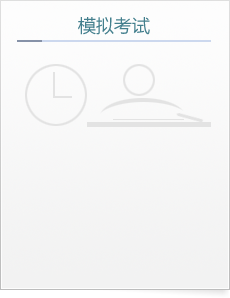
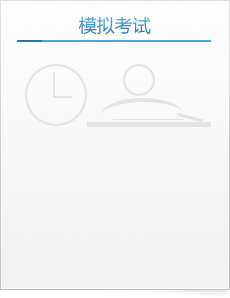
update style

Changed region(s): [[0.0609, 0.0604, 0.913, 0.151]]

diff --git a/public/stylesheets/style.css b/public/stylesheets/style.css
@@ -6,7 +6,7 @@ img { border: none;}
 .clear { clear: both;}
 .orange { color: #F60;}
 .red { color: #F00;}
-.blue { color: #1167aa;}
+.blue { color: #2875ae;}
 
 .wrap { height: 38px; background: url(/images/paper/top_bg.png) repeat-x;}
 
@@ -25,7 +25,7 @@ img { border: none;}
 .menu { width: 437px; height: 39px; padding: 0 12px; _width: 445px; _padding: 0 8px; background: url(/images/paper/menu_bg.png) no-repeat;}
 .menu li { float: left; padding: 0 9px; height: 39px; line-height: 42px;}
 .menu li a { color: #333; text-decoration: none;}
-.menu li a:hover, .menu li a.hover { color: #1abcf0;}
+.menu li a:hover, .menu li a.hover { color: #2875af;}
 
 .main { width: 880px; margin: 0 auto; padding: 10px; overflow: hidden; }
 
@@ -56,11 +56,11 @@ img { border: none;}
 	background: url(/images/paper/all_bg.png) no-repeat -7px -83px;
 }
 .per_load_bg { width: 199px; height: 20px; background: url(/images/paper/per_load_bg.png) no-repeat; padding: 7px 0 0 7px; margin: 0 auto;}
-.per_load_t { width: 207px; height: 11px; background: url(/images/paper/per_load_t.png) no-repeat;}
+.per_load_t { width: 193px; height: 11px; background: url(/images/paper/per_load_t.png) no-repeat;}
 
 
 .per_two_box { width: 141px; height: 105px; margin: 5px auto;}
-.per_tb_title { width: 141px; height: 27px; overflow: hidden; line-height: 27px; text-align: center; font-size: 14px; color: #437f8d; font-family: "微软雅黑";}
+.per_tb_title { width: 141px; height: 27px; overflow: hidden; line-height: 27px; text-align: center; font-size: 14px; color: #2875ae; font-family: "微软雅黑";}
 .per_tb_xinx { background: url(/images/paper/all_bg.png) no-repeat 0px -524px;}
 .per_tb_ctk { background: url(/images/paper/all_bg.png) no-repeat 0px -563px;}
 .per_tb_biji { background: url(/images/paper/all_bg.png) no-repeat 0px -603px;}
@@ -241,7 +241,7 @@ img { border: none;}
 .mokao_right { float: left; width: 635px; height: 364px; position: relative;}
 .mokaoList { height: 70px; padding-top: 30px; line-height: 24px; cursor: pointer;}
 .mokaoList h3 { font-size: 14px; color: #333;}
-.mkl_h h3 { color: #1167aa;}
+.mkl_h h3 { color: #2875ae;}
 
 .mk_r_div {padding-left: 240px; width: 395px; padding-top: 40px; height: 324px; overflow: hidden;}
 .mkList_jt0 { background: url(/images/paper/mkList_jt0.jpg) no-repeat 0 center;}
@@ -271,6 +271,29 @@ img { border: none;}
 .tb_checkBox { height: 27px; padding-left: 490px; margin-top: 10px;}
 
 .tb_check {  width: 60px; height: 27px; display: block; background: url(/images/paper/all_bg.png) no-repeat -30px -157px;}
+
+
+
+/*综合-----------------------------*/
+.zonghe_div { padding: 10px; height: 600px; position: relative;}
+.zh_tab { width: 250px; height:176px; background: url(/images/paper/zh_tab.png) no-repeat; _background: url(/images/paper/zh_tab.gif) no-repeat; position: absolute;}
+.zh_tab0 { background: url(/images/paper/zh_tab0.png) no-repeat; _background: url(/images/paper/zh_tab0.gif) no-repeat;}
+.zh_tab_title { height: 40px; line-height: 40px; padding-right: 10px; text-align: right; font-size: 18px; color: #2875ae;}
+.zh_tab_box { width: 240px; height:120px; padding: 5px; line-height: 24px; overflow: hidden;}
+.zh_position_one { z-index: 5; left: 50px;}
+.zh_position_two { z-index: 4; left: 180px;}
+.zh_position_three { z-index: 3; left: 310px;}
+.zh_position_four { z-index: 2; left: 440px;}
+.zh_position_five { z-index: 1; left: 570px;}
+
+
+.zh_top { width: 100%;height: 50px; margin-top: 20px; padding-left: 200px;}
+.zh_load { width: 250px; float: left; margin-top: 5px;}
+.zh_addTo_btn { width: 160px; float: left; height: 35px; }
+.zh_addTo_btn a { width: 160px; height: 35px; display: block; margin: 0 auto; background: url(/images/paper/all_bg.png) no-repeat -198px -440px; text-indent: -999px; overflow: hidden;}
+
+
+.zh_p { padding-left: 50px; height: 32px; line-height: 32px; font-size: 14px;}
 
 
 

diff --git a/public/javascripts/answer_paper.js b/public/javascripts/answer_paper.js
@@ -861,3 +861,37 @@ function answer_xml() {
         }
     }
 }
+
+//音频控制
+function control_audio(audio_id) {
+    var audio = $("audio" + audio_id);
+    if (window.HTMLAudioElement) {
+        try {
+            if(getCookie("exam_audio_" + audio_id) == null){
+                setCookie("exam_audio_" + audio_id, 0)
+            }
+            if(getCookie("exam_audio_" + audio_id) <1 ){
+                if(audio.paused){
+                    audio.load();
+                    audio.play();
+                    setCookie("exam_audio_" + audio_id, parseInt(getCookie("exam_audio_" + audio_id))+1);
+                } else {
+                    var flash_div = create_element("div", null, "flash_notice", "tishi_tab", null, "innerHTML");
+                    flash_div.innerHTML = "<p>听力播放过程中不能暂停或停止。</p>";
+                    document.body.appendChild(flash_div);
+                    show_flash_div();
+                }
+            }
+        }catch (e) {
+            var flash_div = create_element("div", null, "flash_notice", "tishi_tab", null, "innerHTML");
+            flash_div.innerHTML = "<p>播放错误，请您检查您的音频文件是否存在。</p>";
+            document.body.appendChild(flash_div);
+            show_flash_div();
+        }
+    }
+}
+
+//记录当前播放时间
+function audio_current_time() {
+    
+}

diff --git a/public/javascripts/zh_tab.js b/public/javascripts/zh_tab.js
@@ -1,0 +1,15 @@
+// JavaScript Document
+$(function(){
+    var thisCss;
+	$('.zh_tab').bind('mouseover',function(){
+		thisCss = $(this).css('z-index');
+		$(this).css('z-index','10');
+		$(this).addClass('zh_tab0').siblings().removeClass('zh_tab0');
+		$(this).find('.zh_tab_title').css('color','#ffffff')
+	})	
+	$('.zh_tab').bind('mouseout',function(){
+		$(this).css('z-index',thisCss);
+		$(this).removeClass('zh_tab0');
+		$(this).find('.zh_tab_title').css('color','#2875ae')
+	})	
+})
